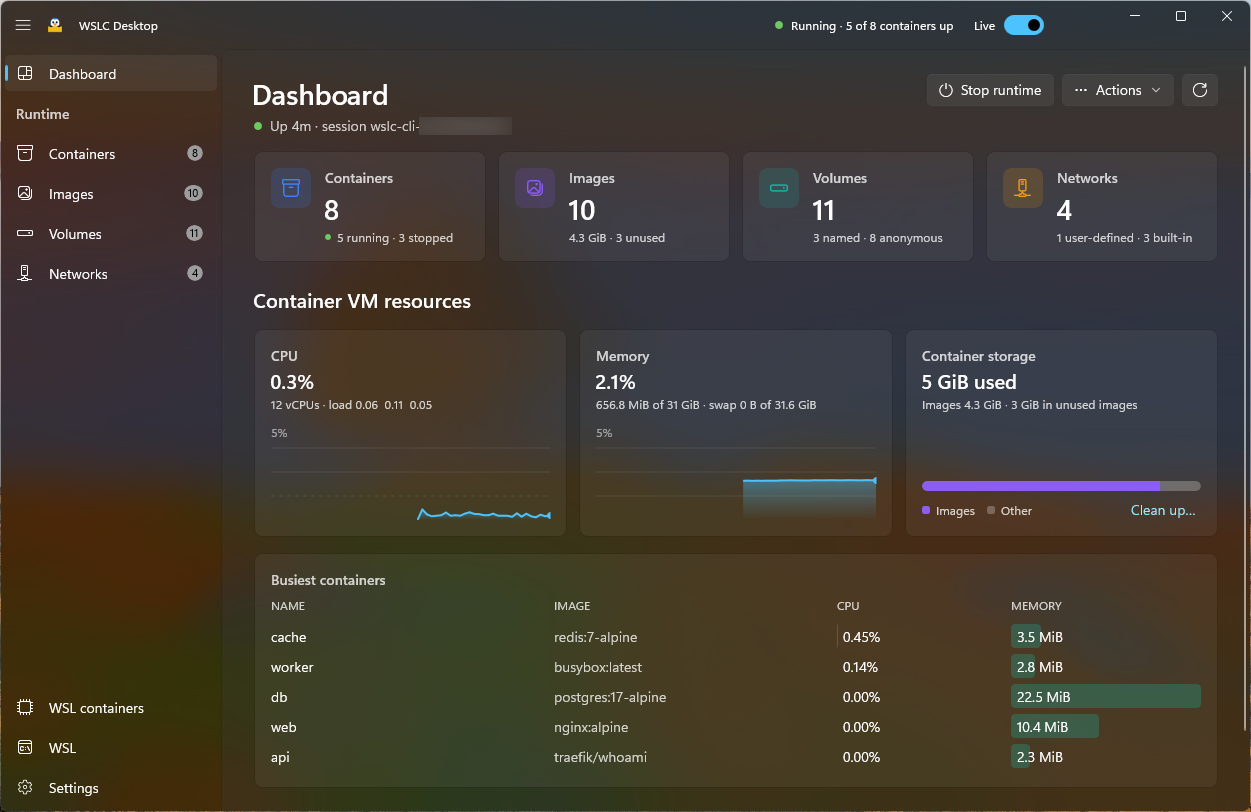
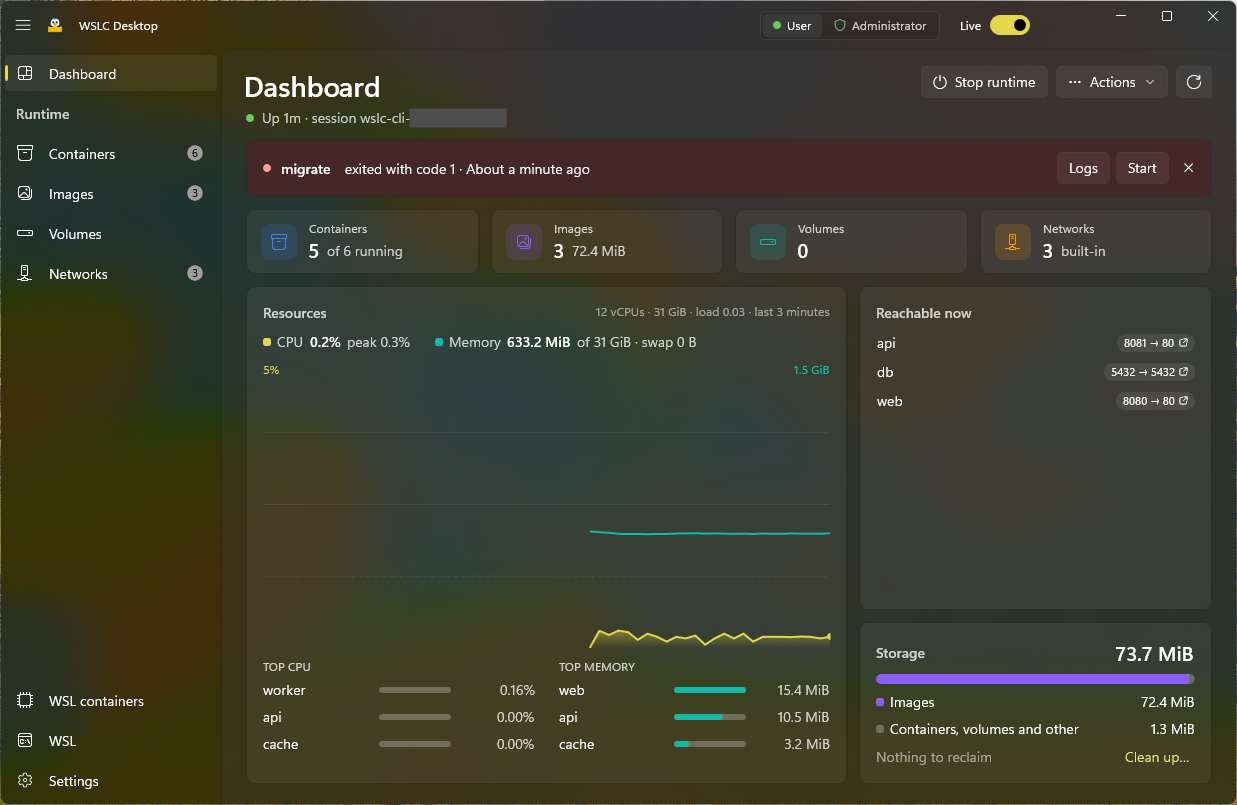
Update the dashboard screenshot and its description

diff --git a/README.md b/README.md
@@ -17,12 +17,12 @@
 </p>
 
 <p align="center">
-  <img src="docs/images/dashboard.png" alt="The WSLC Desktop dashboard: container, image, volume and network counts, CPU and memory graphs of the container VM, and the busiest containers">
+  <img src="docs/images/dashboard.png" alt="The WSLC Desktop dashboard: what needs attention, container, image, volume and network counts, a CPU and memory graph of the container VM with its top consumers, the ports running containers publish, and container storage">
 </p>
 
 ## ✨ Features
 
-- **Dashboard.** Counts of containers, images, volumes and networks; live CPU and memory of the container VM with 3-minute graphs; container storage; VM uptime; the busiest containers; quick actions.
+- **Dashboard.** What needs attention (failed or restarting containers, reclaimable space); counts of containers, images, volumes and networks; live CPU and memory of the container VM on a 3-minute graph with the top consumers; the ports running containers publish; container storage; quick actions.
 - **Containers.** A live list with state, status, ports, CPU and memory. Start, stop, restart and delete; open an interactive shell in Windows Terminal; read the logs (tail, follow, timestamps) and the `inspect` output.
 - **Images.** Size, age and usage. Pull; run or create a container with ports, volumes, variables, resource limits, GPUs and more; delete; prune dangling or all unused images.
 - **Volumes and networks.** Named and anonymous volumes with their mountpoints; user-defined networks. Delete and prune unused ones.
